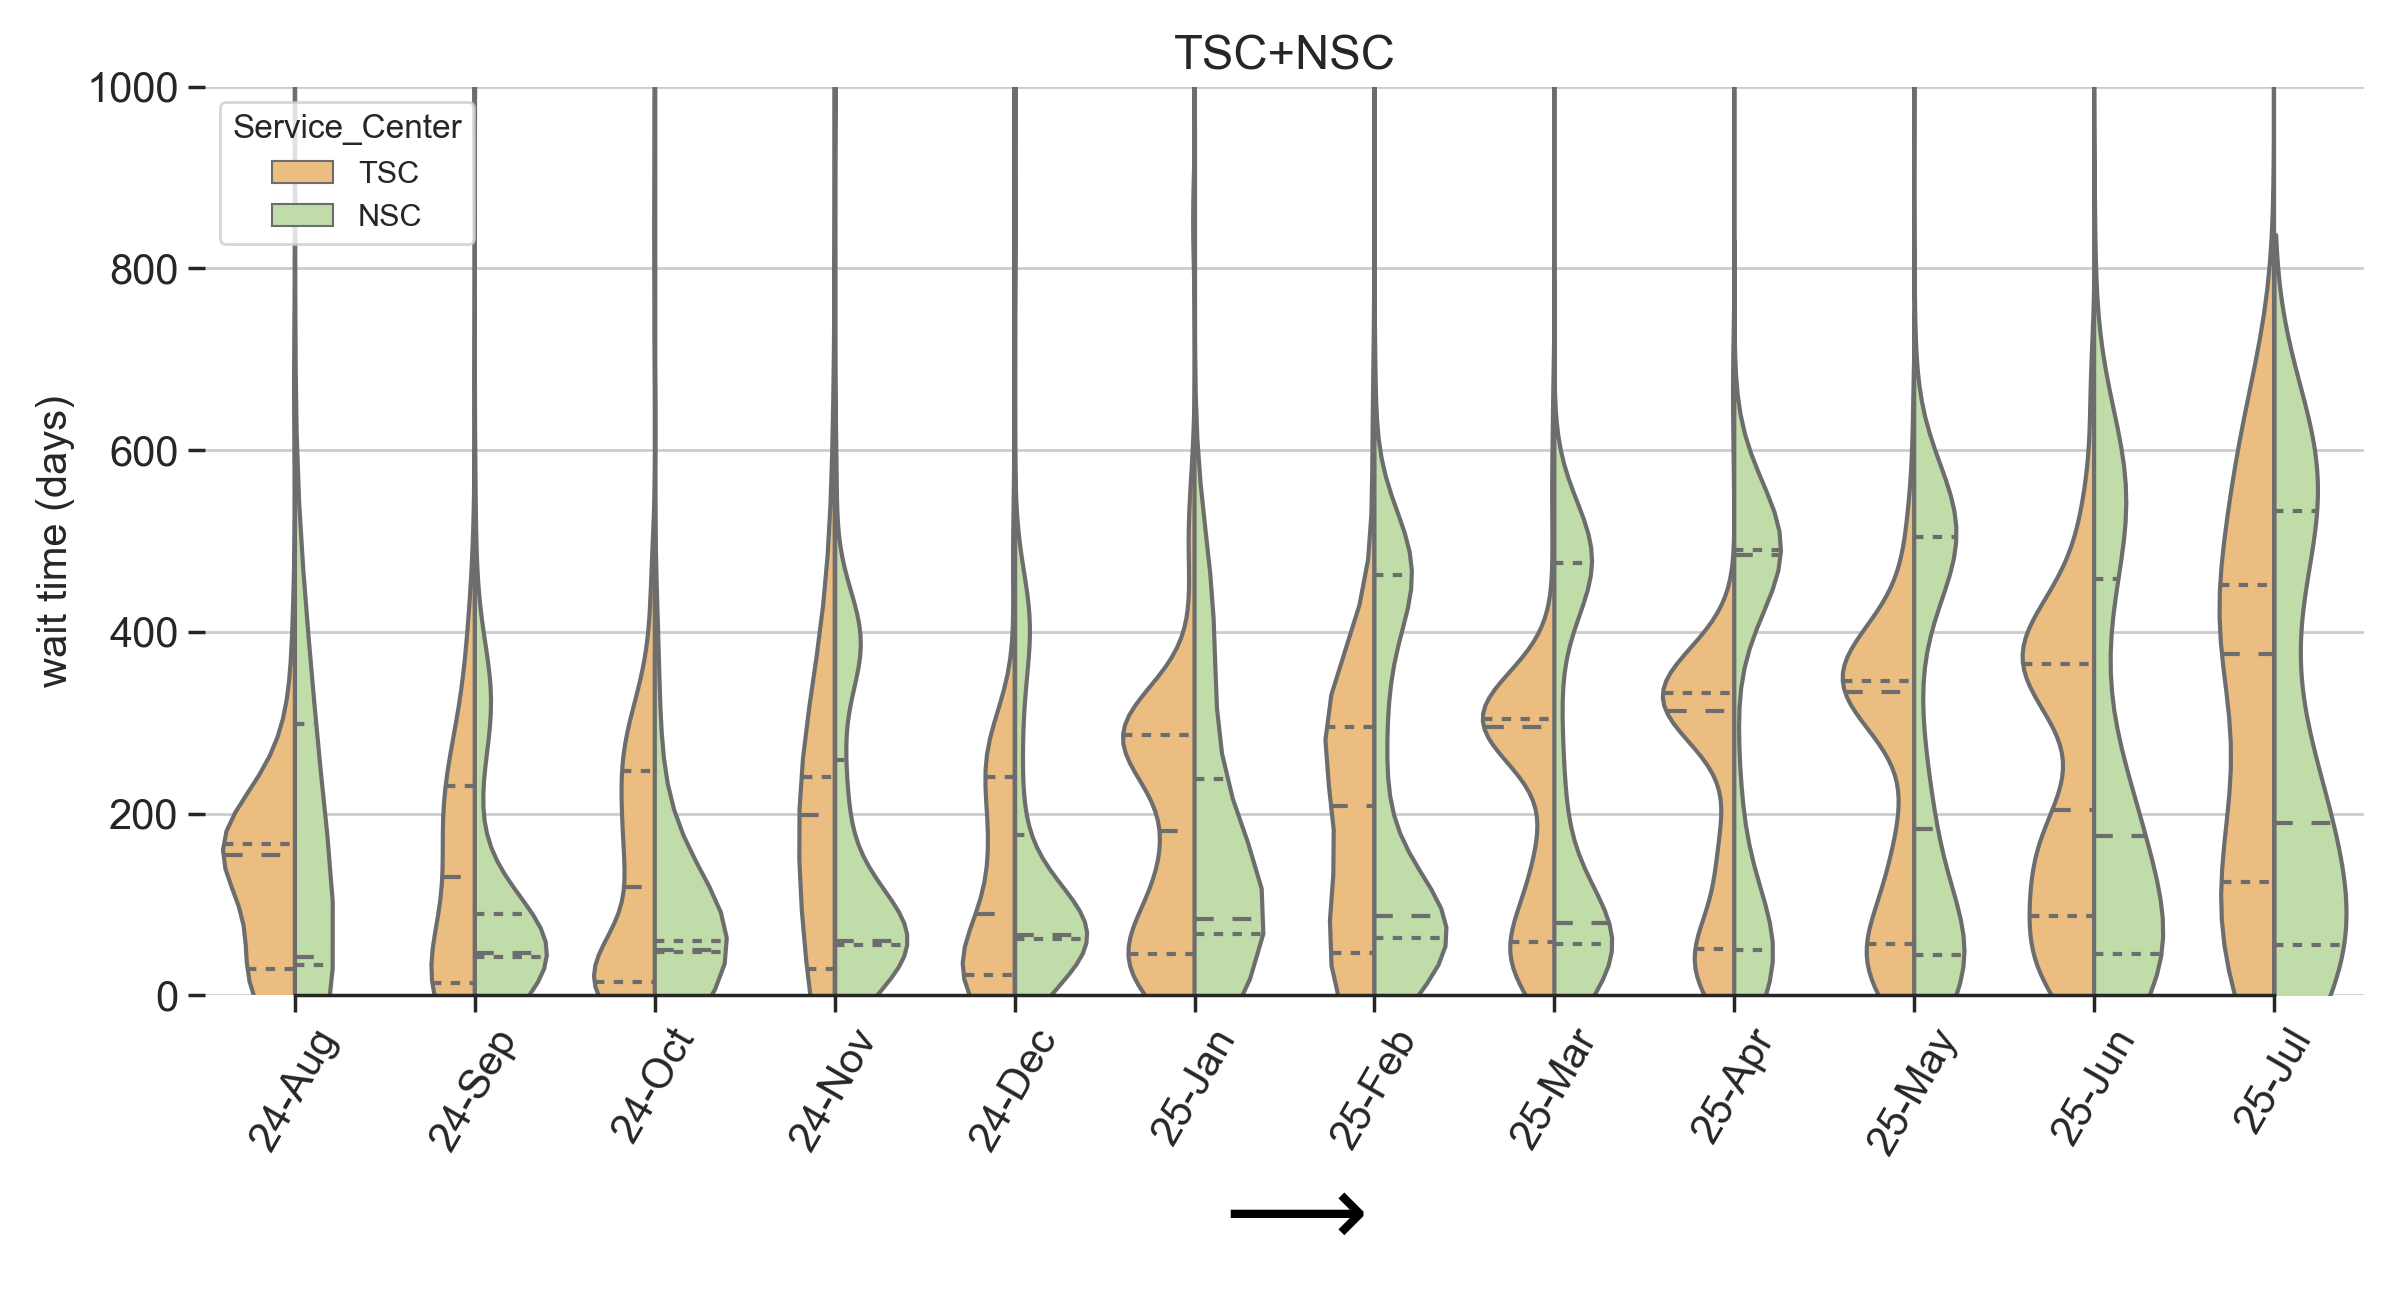
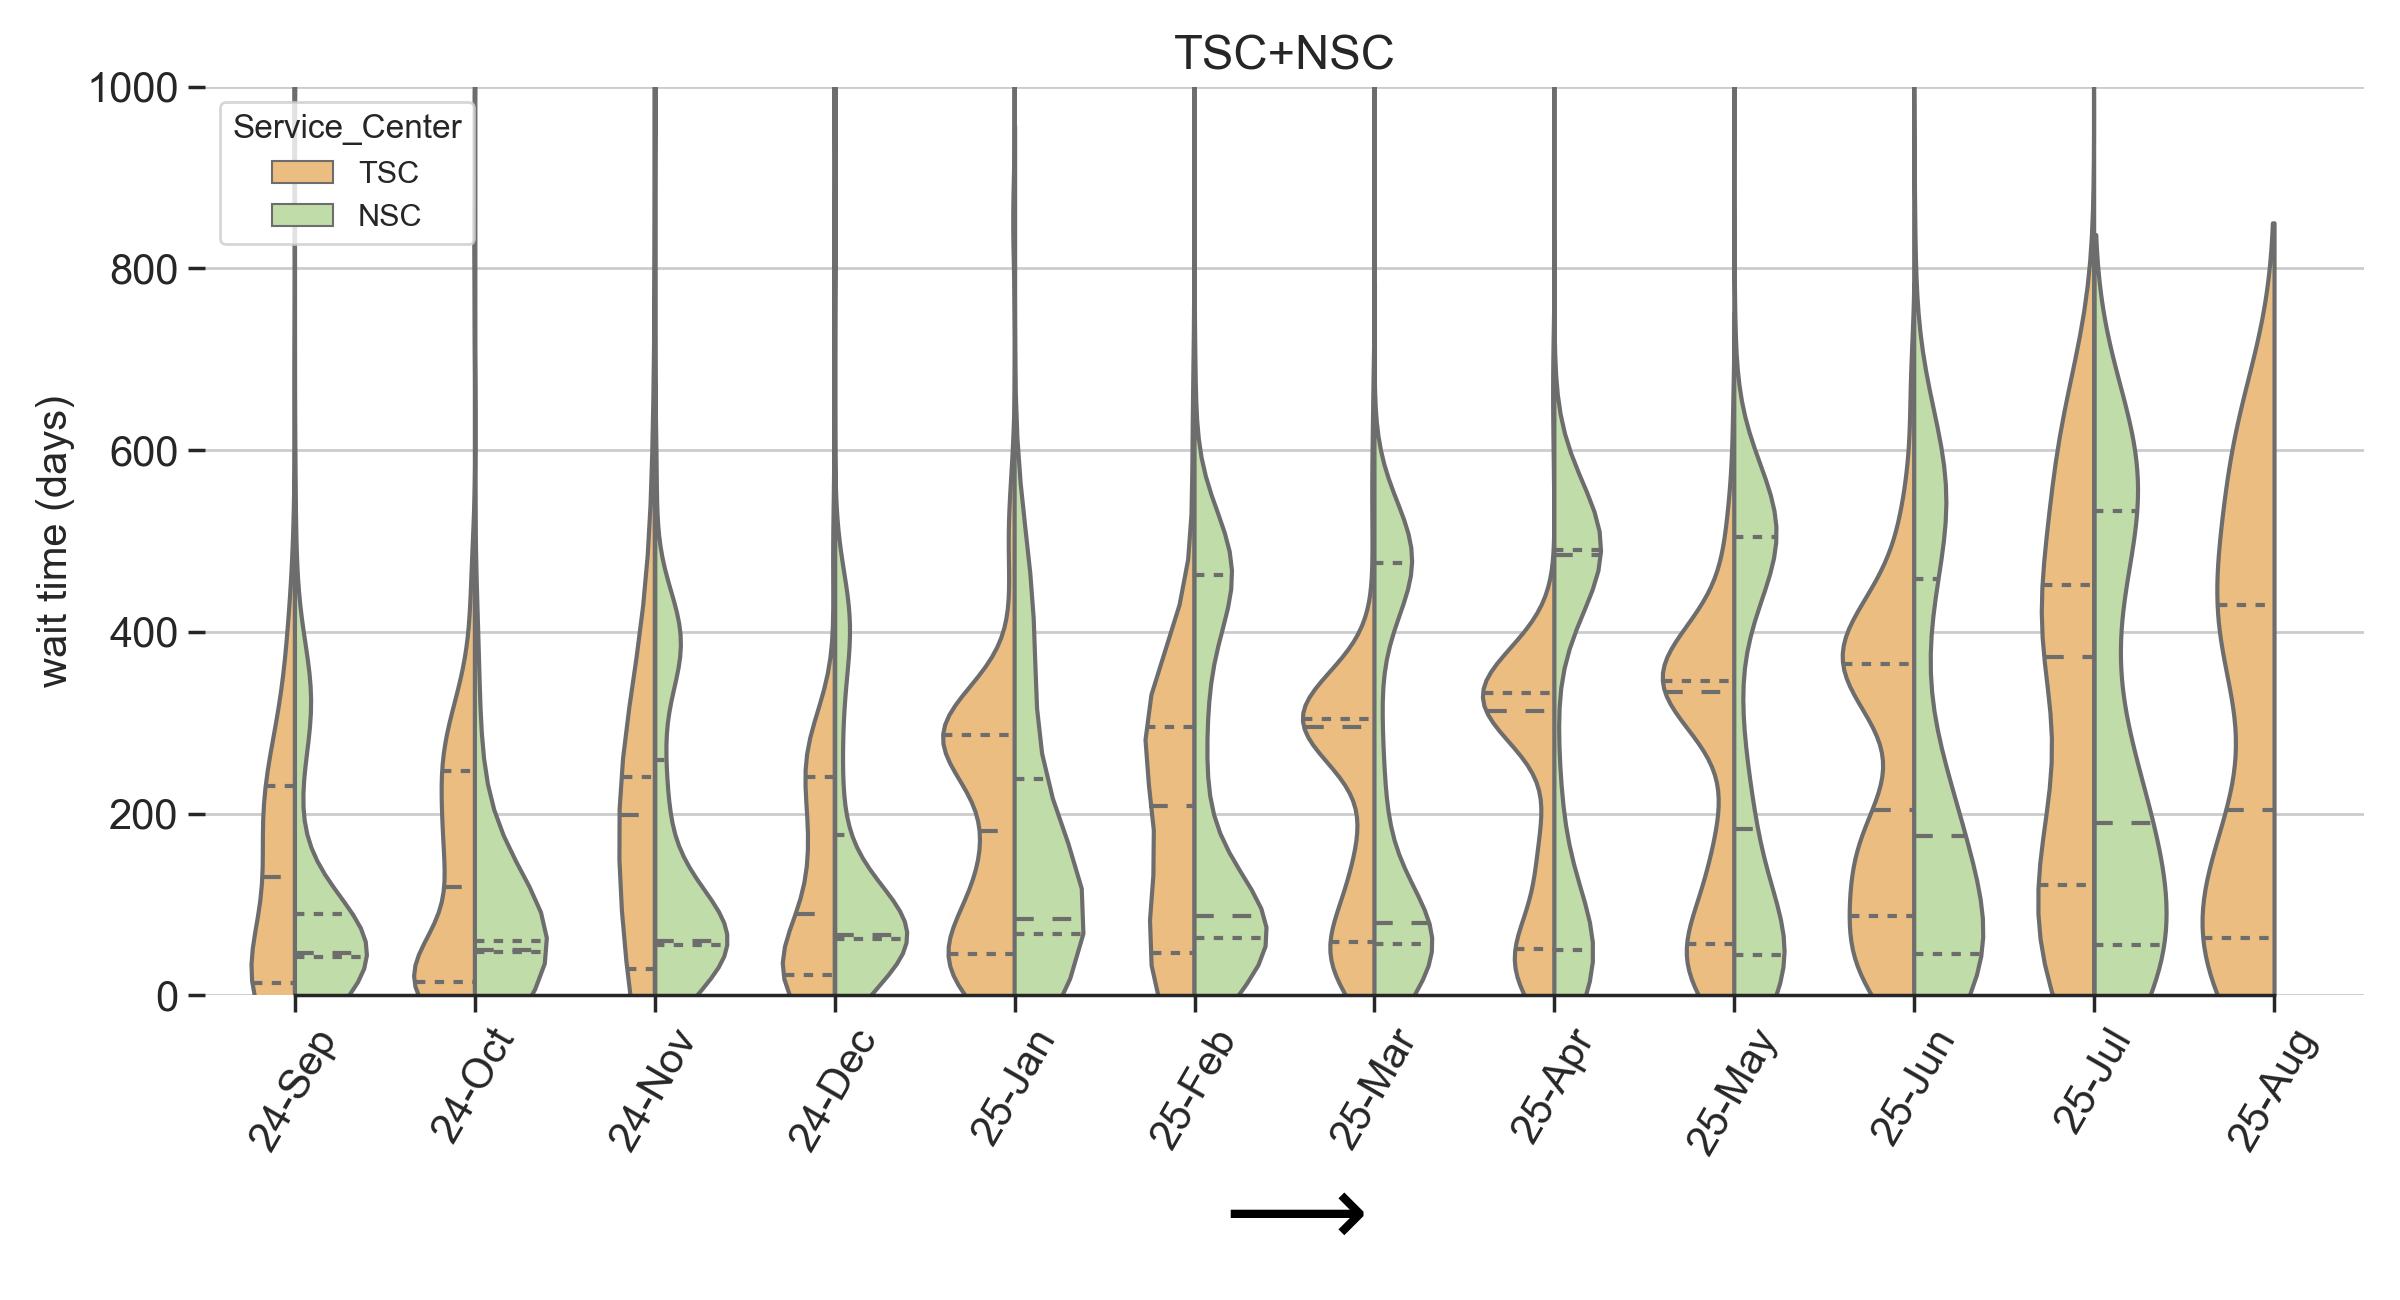
Aug-16 update

diff --git a/README.md b/README.md
@@ -1,4 +1,4 @@
-## National Interest Waiver Wait Time, updated Aug-07-2025 
+## National Interest Waiver Wait Time, updated Aug-16-2025 
 * sec203(b)(2), Indiv w/Adv Deg or Exceptional Ability in National Interest are counted as NIW cases from now on. 
  
 USCIS Employment-based-2 NIW I-140 wait time before approval (data source: [Victoria Chen](https://www.wegreened.com/eb1_niw_approvals)). 
